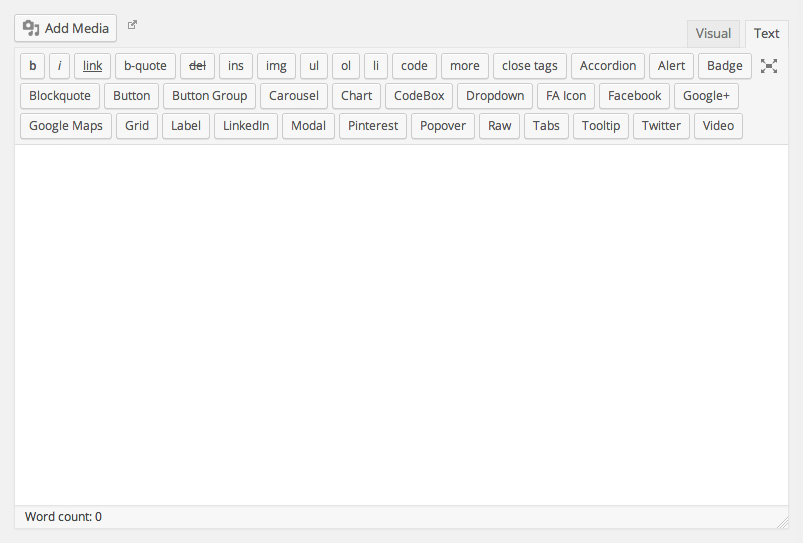
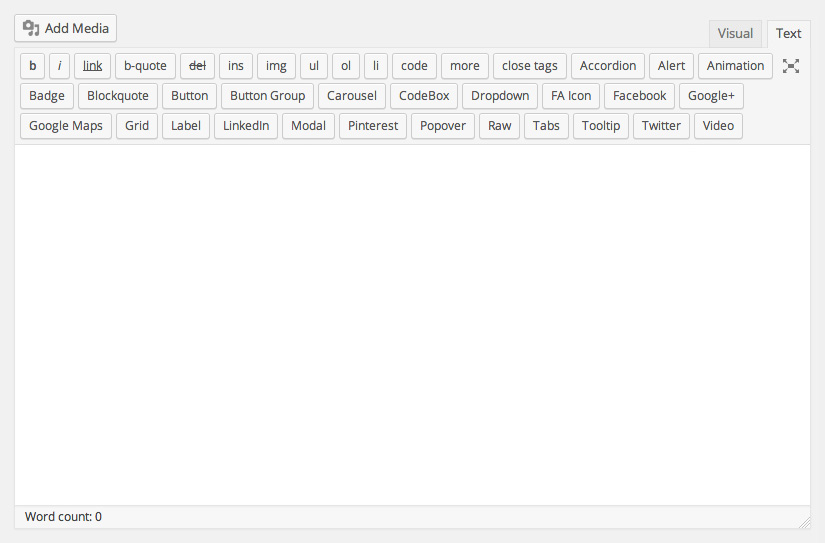
Added Support for DMS core themes. Added Quicktag for PageLines Animation Classes

diff --git a/shortcode-quicktags.php b/shortcode-quicktags.php
@@ -6,7 +6,7 @@ Author URI: http://www.MrFent.com
 Demo: http://shortcode-quicktags.MrFent.com
 Description: Adds PageLines shortcode Quicktags to the WordPress HTML editor 
 Class Name: ShortcodeQuicktags
-Version: 1.0.0
+Version: 1.0.1
 PageLines: true
 v3: true
 */
@@ -14,14 +14,14 @@ v3: true
 class ShortcodeQuicktags {
 	
 	function __construct() {
-		if ( 'dms' == basename( get_template_directory() ) ) {
 		add_action( 'admin_head', array(&$this, 'admin_register_head'));
 		add_action( 'after_setup_theme', array( &$this, 'options' ));
 		add_action( 'admin_print_footer_scripts', array(&$this, 'add_shortcode_quicktags'));	
-		}
 	}
 	
 	function admin_register_head() {
+		if ( !class_exists( 'EditorInterface' ) ) 
+		return;
 		if ((pl_setting( 'sq_button_text_color')) || (pl_setting( 'sq_button_background_color'))) {
 		$button_background_color = (pl_setting( 'sq_button_background_color')) ? pl_setting( 'sq_button_background_color') : '#f7f7f7';
 		$button_text_color = (pl_setting( 'sq_button_text_color')) ? pl_setting( 'sq_button_text_color') : '555555';
@@ -34,6 +34,8 @@ class ShortcodeQuicktags {
 	}
 	
 	function add_shortcode_quicktags() {
+		if ( !class_exists( 'EditorInterface' ) )
+		return;
 	    if (wp_script_is('quicktags')){
 		$colorclass = (pl_setting( 'color_class')) ? pl_setting( 'color_class') : 'primary'; ?>
 	    <script type="text/javascript">
@@ -41,6 +43,8 @@ class ShortcodeQuicktags {
 			QTags.addButton( 'pl_accordion', '<?php _e( 'Accordion', 'shortcode-quicktags' );?>', '[pl_accordion name="accordion"][pl_accordioncontent name="accordion" number="1" heading="Tile 1" open="yes"]\nContent 1\n[/pl_accordioncontent]\n[pl_accordioncontent name="accordion" number="2" heading="Title 2"]\nContent 2\n[/pl_accordioncontent]\n[/pl_accordion]', '', 'pl_accordion', '<?php _e( 'PageLines Accordion', 'shortcode-quicktags' );?>', 1000 );
 			<?php } if(!pl_setting('pl_alertbox')) {?>
 			QTags.addButton( 'pl_alertbox', '<?php _e( 'Alert', 'shortcode-quicktags' );?>', '[pl_alertbox type="<?php echo $colorclass; ?>" closable="yes"]', '[/pl_alertbox]', 'pl_alertbox', '<?php _e( 'PageLines Alert\n\ntype:\n   default (Grey)\n   primary (Dark Blue)\n   info (Light Blue)\n   success (Green)\n   warning (Orange)\n   important (Red)\n   inverse (Black)\n\n(Optional) Insert between code:\n<h2 class=&#34;alert-heading&#34;>Alert Heading</h2>', 'shortcode-quicktags' );?>', 1000 );
+			<?php } if(!pl_setting('pl_animation')) {?>	
+			QTags.addButton( 'pl_animation', '<?php _e( 'Animation', 'shortcode-quicktags' );?>', '<div class="pl-animation-group">\n	<div class="pl-animation pla-fade">INSERT CONTENT</div>\n	<div class="pl-animation pla-fade">INSERT CONTENT</div>\n	<div class="pl-animation pla-fade">INSERT CONTENT</div>\n	<div class="pl-animation pla-fade">INSERT CONTENT</div>\n	<div class="pl-animation pla-fade">INSERT CONTENT</div>\n	<div class="pl-animation pla-fade">INSERT CONTENT</div>\n</div>', '', 'pl_animation', '<?php _e( 'PageLines Animation Classes\n\nclass:\n  no-anim (No Animation)\n  pl-appear\n  pla-fade\n  pla-scale\n  pla-from-top\n  pla-from-bottom\n  pla-from-left\n  pla-from-right\n\nTo make everything appear at once, remove the\nopening and closing pl-animation-group div\n\nYou can use these Animation Classes with\nthings like <ol> & <ul> lists, the PageLines\nResponsive Grid, pretty much anything...', 'shortcode-quicktags' );?>', 1000 );
 			<?php } if(!pl_setting('pl_badge')) {?>
 			QTags.addButton( 'pl_badge', '<?php _e( 'Badge', 'shortcode-quicktags' );?>', '[pl_badge type="<?php echo $colorclass; ?>"]', '[/pl_badge]', 'pl_badge', '<?php _e( 'PageLines Badge\n\ntype:\n   default (Grey)\n   primary (Dark Blue)\n   info (Light Blue)\n   success (Green)\n   warning (Orange)\n   important (Red)\n   inverse (Black)', 'shortcode-quicktags' );?>', 1000 );
 			<?php } if(!pl_setting('pl_blockquote')) {?>
@@ -97,8 +101,8 @@ class ShortcodeQuicktags {
 	}
 
 	function options(  ){
-		if(!function_exists('pl_setting'))
-			return;
+		if ( !class_exists( 'EditorInterface' ) )
+		return;
 		$options = array( );
 		$options[] = array(
 			'key'					=> 'quicktags-instructions',
@@ -158,6 +162,11 @@ class ShortcodeQuicktags {
 					'type' 			=> 'check',
 					'label'			=> __( 'Hide Alert', 'shortcode-quicktags' )
 				),
+				array(
+					'key'			=> 'pl_animation',
+					'type' 			=> 'check',
+					'label'			=> __( 'Hide Animation', 'shortcode-quicktags' )
+				),			
 				array(
 					'key'			=> 'pl_badge',
 					'type' 			=> 'check',
